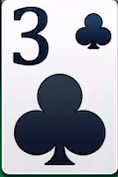
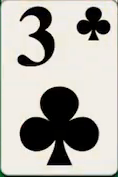
Use opening-frame crops for visible card faces

diff --git a/tests/solitaire.spec.js b/tests/solitaire.spec.js
@@ -284,6 +284,28 @@ test('source opening replay matches the 20-second score, move count, and exposed
     }),
   }));
   expect(finalBoard).toEqual({ score: 30, moves: 3, stock: 24, topCards: ['4♣', '6♣', '2♣', '11♦', '3♣', '12♣', '9♦'] });
+  await expect(page.locator('.pile-column[data-pile="0"] .card-face-art[src$="4-of-clubs-reference.png"]')).toHaveCount(1);
+  await expect(page.locator('.pile-column[data-pile="1"] .card-face-art')).toHaveAttribute('src', /6-of-clubs-reference\.png$/);
+  await expect(page.locator('.pile-column[data-pile="2"] .card-face-art')).toHaveAttribute('src', /2-of-clubs-reference\.png$/);
+  await expect(page.locator('.pile-column[data-pile="4"] .card-face-art')).toHaveAttribute('src', /3-of-clubs-reference\.png$/);
+  await expect(page.locator('.pile-column[data-pile="5"] .card-face-art')).toHaveAttribute('src', /queen-of-clubs-reference\.png$/);
+  await expect(page.locator('.pile-column[data-pile="6"] .card-face-art')).toHaveAttribute('src', /9-of-diamonds-reference\.png$/);
+  const sourceOpeningArtHashes = await page.evaluate(async () => Promise.all([
+    '4-of-clubs-reference.png', '6-of-clubs-reference.png', '2-of-clubs-reference.png',
+    '3-of-clubs-reference.png', 'queen-of-clubs-reference.png', '9-of-diamonds-reference.png',
+  ].map(async (name) => {
+    const response = await fetch(`/assets/cards/${name}`);
+    const digest = await crypto.subtle.digest('SHA-256', await response.arrayBuffer());
+    return [...new Uint8Array(digest)].map((byte) => byte.toString(16).padStart(2, '0')).join('');
+  })));
+  expect(sourceOpeningArtHashes).toEqual([
[6 lines of base64/hex data omitted]
+  ]);
   await page.waitForTimeout(1000);
   await page.evaluate(() => {
     window.solitaireGame.state.seconds = 6;

diff --git a/assets/cards/README.md b/assets/cards/README.md
@@ -14,7 +14,7 @@ The following 118×177 PNGs are crops of matching cards from the gameplay video 
 | `queen-of-spades-reference.png` | 153600 (10s) | (133, 679) |
 | `king-of-diamonds-reference.png` | 153600 (10s) | (383, 719) |
 | `jack-of-diamonds-reference.png` | 153600 (10s) | (508, 741) |
-| `queen-of-clubs-reference.png` | 460800 (30s) | (633, 744) |
+| `queen-of-clubs-reference.png` | 307200 (20s) | (633, 744) |
 | `queen-of-diamonds-reference.png` | 1152000 (75s) | (133, 734) |
 | `queen-of-hearts-reference.png` | 4608000 (300s) | (8, 735) |
 | `king-of-clubs-reference.png` | 14407680 (938s) | (622, 428) |
@@ -24,11 +24,16 @@ The following 118×177 PNGs are crops of matching cards from the gameplay video 
 | `jack-of-hearts-reference.png` | 1152000 (75s) | (633, 829) |
 | `jack-of-spades-reference.png` | 1612800 (105s) | (622, 428) |
 
-All twelve Jack, Queen, and King cards now use complete source-frame crops. Fifteen number-card faces also have 118×177 crops from the early default-deck section of the gameplay recording:
+All twelve Jack, Queen, and King cards use complete source-frame crops; the same table includes the 5♦. Nineteen further number-card faces have 118×177 crops from the gameplay recording:
 
 | Card image | PTS (time) |
 | --- | ---: |
 | `6-of-hearts-reference.png` | 353280 (23s) |
+| `6-of-clubs-reference.png` | 307200 (20s) |
+| `2-of-clubs-reference.png` | 307200 (20s) |
+| `4-of-clubs-reference.png` | 307200 (20s) |
+| `3-of-clubs-reference.png` | 307200 (20s) |
+| `9-of-diamonds-reference.png` | 307200 (20s) |
 | `9-of-spades-reference.png` | 814080 (53s) |
 | `2-of-diamonds-reference.png` | 844800 (55s) |
 | `ace-of-spades-reference.png` | 921600 (60s) |
@@ -45,18 +50,20 @@ All twelve Jack, Queen, and King cards now use complete source-frame crops. Fift
 
 The 8♥ crop uses source rectangle `(648, 428, 118, 177)` from the 95-second gameplay frame; the full card face is visible in that source frame.
 
+The 6♣, 2♣, 4♣, 3♣, Q♣, and 9♦ use complete crops from the 20-second opening frame at `(133,646)`, `(258,695)`, `(8,732)`, `(508,720)`, `(633,744)`, and `(758,794)`, respectively; each crop is 118×177 pixels. The 6♣ and 2♣ replace App Store crops whose blue-tinted clubs did not match the black artwork. These six visible faces now come from the exact frame used by the opening-board replay.
+
+On macOS, `sips -c 177 118 --cropOffset Y X source-frame.png --out card-reference.png` reproduces a 118×177 crop without resampling; replace `Y` and `X` with the documented source origin.
+
 The matching reference PNG is selected at runtime and included in the offline shell cache. The remaining number-card faces are listed with their sources below.
 
-Four additional number-card faces are 118×177 source-frame crops from the full gameplay recording:
+Two additional number-card faces are 118×177 source-frame crops from the full gameplay recording:
 
 | Card image | PTS (time) | Crop origin (x, y) |
 | --- | ---: | ---: |
 | `7-of-diamonds-reference.png` | 3732480 (243s) | (622, 428) |
-| `9-of-diamonds-reference.png` | 6082560 (396s) | (622, 428) |
 | `2-of-hearts-reference.png` | 9231360 (601s) | (622, 428) |
-| `4-of-clubs-reference.png` | 11543040 (751.5s) | (622, 428) |
 
-Ten more number-card faces are crops from the official [App Store listing](https://apps.apple.com/us/app/solitaire-master/id6464113198?platform=ipad), from its 1242×2688 screenshot renditions. Each listed 116×174 source rectangle is resized to the app's 118×177 card art size:
+Eight more number-card faces are crops from the official [App Store listing](https://apps.apple.com/us/app/solitaire-master/id6464113198?platform=ipad), from its 1242×2688 screenshot renditions. Each listed 116×174 source rectangle is resized to the app's 118×177 card art size:
 
 | Card image | Listing screenshot | Crop origin (x, y) |
 | --- | ---: | ---: |
@@ -66,8 +73,6 @@ Ten more number-card faces are crops from the official [App Store listing](https
 | `4-of-spades-reference.png` | 2 | (201, 1015) |
 | `8-of-spades-reference.png` | 2 | (443, 1061) |
 | `3-of-hearts-reference.png` | 3 | (563, 1084) |
-| `6-of-clubs-reference.png` | 3 | (927, 1130) |
-| `2-of-clubs-reference.png` | 3 | (201, 799) |
 | `10-of-clubs-reference.png` | 3 | (806, 799) |
 | `3-of-spades-reference.png` | 2 | (807, 1129) |
 
@@ -80,11 +85,10 @@ Two more number-card faces are crops from the official [Google Play listing](htt
 | `ace-of-diamonds-reference.png` | 1 | (274, 152) | 116×172 |
 | `10-of-diamonds-reference.png` | 1 | (943, 480) | 114×170 |
 
-Eight further number-card faces are complete crops from full gameplay frames. Each 118×177 crop was checked against the full 884×1920 source frame to ensure that another card, stock counter, selection glow, or UI overlay does not cover the face:
+Seven further number-card faces are complete crops from full gameplay frames. Each 118×177 crop was checked against the full 884×1920 source frame to ensure that another card, stock counter, selection glow, or UI overlay does not cover the face:
 
 | Card image | PTS (time) | Crop origin (x, y) |
 | --- | ---: | ---: |
-| `3-of-clubs-reference.png` | 6144000 (400s) | (758, 1040) |
 | `5-of-clubs-reference.png` | 8294400 (540s) | (508, 907) |
 | `8-of-diamonds-reference.png` | 9830400 (640s) | (8, 1077) |
 | `10-of-spades-reference.png` | 11059200 (720s) | (133, 907) |
